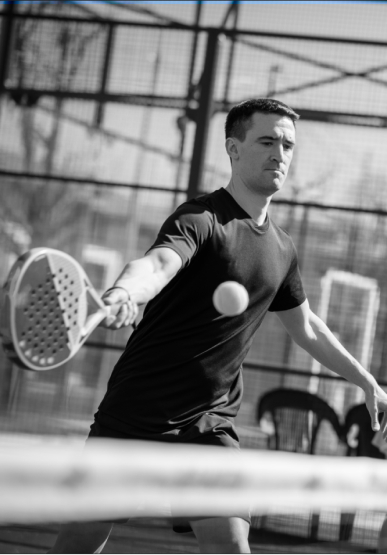
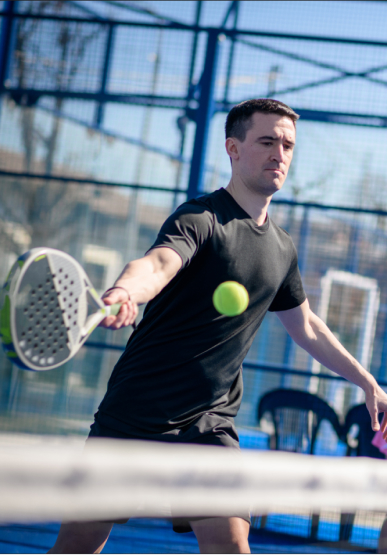
final updates

diff --git a/src/app/homepage/components/offers-section.tsx b/src/app/homepage/components/offers-section.tsx
@@ -8,25 +8,25 @@ const WhatsOnOffer = () => {
       title: "#ACADEMY",
       description:
         "At AIRBASH, we offer classes for all skill levels, from beginners to pros. Our multisport academy provides expert coaching in cricket, padel, baseball, and golf, tailored to your needs.",
-      image: "/images/academy.jpg", 
+      image: "/images/academy.jpg",
     },
     {
       title: "#LIFESTYLE",
       description:
         "Experience a lifestyle hub designed for sport enthusiasts and families, combining world-class facilities with a welcoming community vibe.",
-      image: "/images/lifestyle.jpg", 
+      image: "/images/lifestyle.jpg",
     },
     {
       title: "#NUTRI-SHOP",
       description:
         "Refuel and recharge at our Nutri-Shop offering performance-focused snacks, meals, and hydration tailored for active lifestyles.",
-      image: "/images/nutri-shop.jpg", 
+      image: "/images/nutri-shop.jpg",
     },
     {
       title: "#VENUE-HIRE",
       description:
         "Host unforgettable events at AIRBASH, with versatile spaces perfect for sports parties, corporate gatherings, and private functions.",
-      image: "/images/venue-hire.jpg", 
+      image: "/images/venue-hire.jpg",
     },
   ];
 
@@ -49,13 +49,15 @@ const WhatsOnOffer = () => {
               key={index}
               className="relative group overflow-hidden rounded-lg shadow-md"
             >
+              {/* Image with Black and White Effect */}
               <Image
                 src={offer.image}
                 alt={offer.title}
                 width={300}
                 height={600}
-                className="w-full h-full object-cover transform group-hover:scale-110 transition duration-300"
+                className="w-full h-full object-cover filter grayscale group-hover:filter-none transition duration-300"
               />
+              {/* Overlay */}
               <div className="absolute inset-0 bg-black bg-opacity-60 flex items-center justify-center opacity-0 group-hover:opacity-100 transition duration-300">
                 <h3 className="text-4xl font-bold text-primary">
                   {offer.title}

diff --git a/src/app/simulators/components/hero-section.tsx b/src/app/simulators/components/hero-section.tsx
@@ -6,7 +6,7 @@ const PadelHeroSection = () => {
     <section className="relative w-full h-screen">
       {/* Background Image */}
       <Image
-        src="/images/simulators-bg.jpg" 
+        src="/images/simulators-bg-2.jpg" 
         alt="Padel Courts"
         layout="fill"
         objectFit="cover"

diff --git a/src/app/homepage/components/social-events-section.tsx b/src/app/homepage/components/social-events-section.tsx
@@ -33,7 +33,7 @@ const SocialEventsSection = () => {
         </div>
         <div>
           <Image
-            src="/images/social-events.jpg"
+            src="/images/social-events-1.jpg"
             alt="Social Events"
             className="rounded-lg shadow-md"
             width={800}
